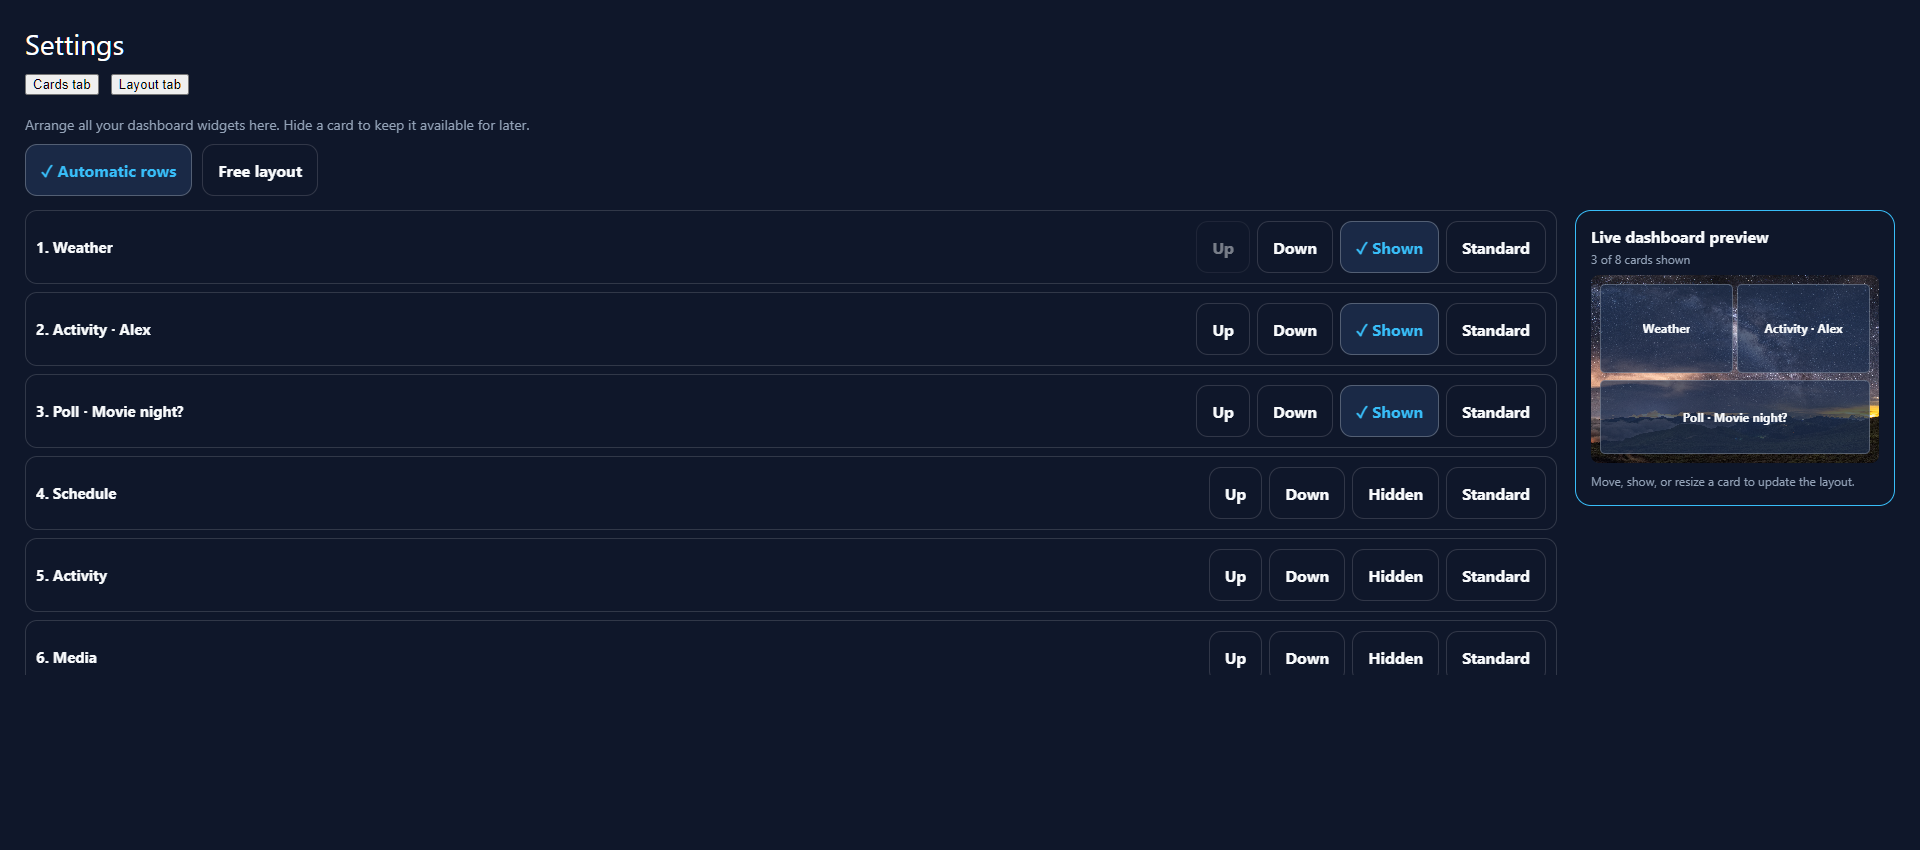
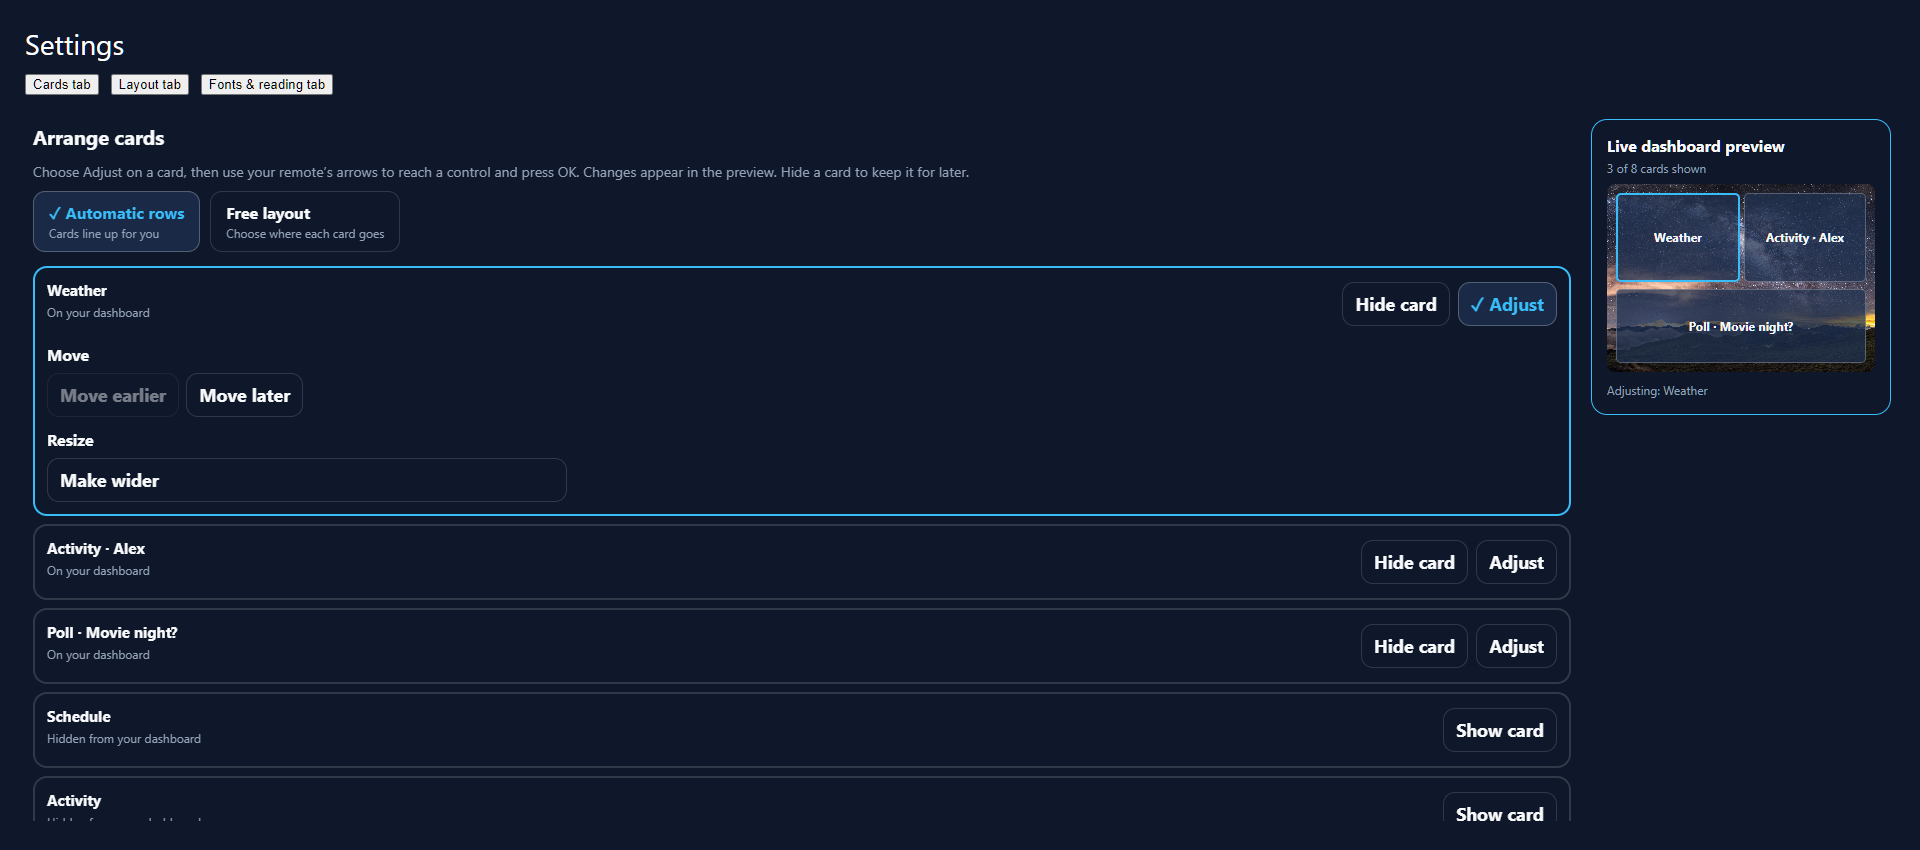
tweak styling of dashboards card layout screen so preview remains sticky

diff --git a/HomeScreen/src/components/settings/appearance/WidgetCardSettings.tsx b/HomeScreen/src/components/settings/appearance/WidgetCardSettings.tsx
@@ -1,6 +1,6 @@
 import Text from '../../shared/ReadingText';
 import {useEffect, useState} from 'react';
-import { useWindowDimensions, View} from 'react-native';
+import {ScrollView, StyleSheet, useWindowDimensions, View} from 'react-native';
 import {useAuth} from '../../../context/AuthContext';
 import {usePolls} from '../../../context/PollsContext';
 import {getAvailableDashboardPolls, getPeopleSettings} from '../../../services/api';
@@ -20,8 +20,12 @@ export default function WidgetCardSettings() {
   const theme = useTheme();
   const {user} = useAuth();
   const {rounds} = usePolls();
-  const {appearance, ready, setWidgetLayout, resetAppearance} = useAppearance();
-  const sideBySide = useWindowDimensions().width >= 900;
+  const {appearance, ready, setWidgetLayout} = useAppearance();
+  const {width, height} = useWindowDimensions();
+  const [editorWidth, setEditorWidth] = useState(width - 280);
+  const sideBySide = editorWidth >= 760;
+  const compactPreview = !sideBySide || height < 700;
+  const [selectedId, setSelectedId] = useState<string | null>(null);
   const [people, setPeople] = useState<PeopleSettings['people']>([]);
   const [polls, setPolls] = useState<AvailablePoll[]>([]);
   const [loading, setLoading] = useState(true);
@@ -45,6 +49,9 @@ export default function WidgetCardSettings() {
   const labels = [...polls, ...Object.values(rounds).filter((round) => !polls.some((poll) => poll.id === round.id))];
   const label = (widget: Widget) => widgetLabel(widget, people, labels);
   const visibleCount = layout.widgets.filter((widget) => widget.visible).length;
+  const selected = layout.widgets.find((widget) => widget.id === selectedId && widget.visible)
+    || layout.widgets.find((widget) => widget.visible);
+  useEffect(() => {setSelectedId(selected?.id || null);}, [selected?.id]);
   const positions = [...layout.grid?.items || []].sort((a, b) => a.y - b.y || a.x - b.x);
   const available: Widget[] = [
     ...people.filter((person) => !layout.widgets.some((widget) => widget.personId === person.id))
@@ -57,55 +64,91 @@ export default function WidgetCardSettings() {
   }
   function edit(id: string, action: WidgetAction) {run(() => setWidgetLayout(changeWidget(layout, id, action)));}
   const copy = {color: theme.colors.textSecondary};
-  const preview = <View style={[styles.livePreviewPanel, {width: sideBySide ? 320 : '100%', borderColor: theme.colors.focusRing, backgroundColor: theme.colors.glassSurface}]}>
+  const preview = <View testID='live-dashboard-preview' style={[styles.livePreviewPanel, {alignSelf: 'flex-start', flexShrink: 0, width: sideBySide ? 300 : '100%', borderColor: theme.colors.focusRing, backgroundColor: theme.colors.glassSurface}]}>
     <Text style={[styles.livePreviewTitle, {color: theme.colors.textPrimary}]}>Live dashboard preview</Text>
     <Text style={[styles.livePreviewMeta, copy]}>{visibleCount} of {layout.widgets.length} cards shown</Text>
-    <LayoutPreview cards={appearance.cards} appearance={{...appearance, widgetLayout: layout}} label={label} large/>
-    <Text style={[styles.livePreviewHint, copy]}>{layout.grid ? 'Positions and sizes use the dashboard’s 12 × 6 grid.' : 'Move, show, or resize a card to update the layout.'}</Text>
+    <LayoutPreview cards={appearance.cards} appearance={{...appearance, widgetLayout: layout}} label={label} selectedId={selected?.id} compact={compactPreview} large/>
+    <Text style={[styles.livePreviewHint, copy]}>{selected ? `Adjusting: ${label(selected)}` : 'Choose a card to adjust.'}</Text>
   </View>;
-  const controls = <View style={[styles.cardList, {flex: sideBySide ? 1 : undefined, width: sideBySide ? undefined : '100%'}]}>
+  const controls = <View style={styles.cardList}>
     {layout.widgets.map((widget, index) => {
       const name = label(widget);
       const item = layout.grid?.items.find((entry) => entry.id === widget.id);
-      const action = (title: string, change: WidgetAction, disabled = false) => <Option key={title} label={title}
-        accessibilityLabel={`${title} ${name}`} disabled={!ready || disabled} onPress={() => edit(widget.id, change)}/>;
-      return <View key={widget.id} style={[styles.cardRow, {borderColor: theme.colors.glassBorder}]}>
-        <Text style={[styles.cardName, {color: theme.colors.textPrimary}]}>{index + 1}. {name}</Text>
-        <View style={styles.cardActions}>
-          {!layout.grid && <>{action('Up', {type: 'order', direction: -1}, index === 0)}{action('Down', {type: 'order', direction: 1}, index === layout.widgets.length - 1)}</>}
-          <Option label={widget.visible ? 'Shown' : 'Hidden'} selected={widget.visible} accessibilityLabel={`${name} ${widget.visible ? 'shown' : 'hidden'}`}
+      const active = widget.id === selected?.id;
+      const action = (title: string, change: WidgetAction, disabled = false, accessibleTitle = title) => {
+        // A move into an occupied space should be visibly unavailable before pressing OK.
+        let blocked = disabled;
+        if (change.type === 'geometry') {
+          try {changeWidget(layout, widget.id, change);} catch {blocked = true;}
+        }
+        return <Option key={title} label={title} compact accessibilityLabel={`${accessibleTitle} ${name}`}
+          disabled={!ready || blocked} onPress={() => edit(widget.id, change)}/>;
+      };
+      return <View key={widget.id} style={[cardStyles.card, {borderColor: active ? theme.colors.focusRing : theme.colors.glassBorder}]}>
+        <View style={cardStyles.cardHeader}>
+          <View style={cardStyles.cardTitle}>
+            <Text style={[styles.cardName, {color: theme.colors.textPrimary}]}>{name}</Text>
+            <Text style={[styles.livePreviewMeta, copy]}>{widget.visible ? 'On your dashboard' : 'Hidden from your dashboard'}</Text>
+          </View>
+          <Option label={widget.visible ? 'Hide card' : 'Show card'} accessibilityLabel={`${widget.visible ? 'Hide' : 'Show'} ${name}`} compact
             disabled={!ready || widget.visible && visibleCount === 1} onPress={() => edit(widget.id, {type: 'visibility'})}/>
-          {!layout.grid && action(widget.size === 'wide' ? 'Wide' : 'Standard', {type: 'size'})}
-          {widget.kind === 'feed' && action('Remove feed', {type: 'remove'}, widget.visible && visibleCount === 1)}
-          {item && <>
-            {action('Previous spot', {type: 'swap', direction: -1}, positions[0]?.id === widget.id)}
-            {action('Next spot', {type: 'swap', direction: 1}, positions[positions.length - 1]?.id === widget.id)}
-            {action('Left', {type: 'geometry', field: 'x', amount: -1}, item.x === 0)}
-            {action('Right', {type: 'geometry', field: 'x', amount: 1}, item.x + item.width === 12)}
-            {action('Up', {type: 'geometry', field: 'y', amount: -1}, item.y === 0)}
-            {action('Down', {type: 'geometry', field: 'y', amount: 1}, item.y + item.height === 6)}
-            <Text style={copy}>{item.width} × {item.height}</Text>
-            {action('Narrower', {type: 'geometry', field: 'width', amount: -1}, item.width === 3)}
-            {action('Wider', {type: 'geometry', field: 'width', amount: 1}, item.x + item.width === 12)}
-            {action('Shorter', {type: 'geometry', field: 'height', amount: -1}, item.height === 2)}
-            {action('Taller', {type: 'geometry', field: 'height', amount: 1}, item.y + item.height === 6)}
-          </>}
+          {widget.visible && <Option label='Adjust' selected={active} accessibilityLabel={`Adjust ${name}`} compact
+            disabled={!ready} onPress={() => {setSelectedId(widget.id); setMessage('');}}/>}
+          {widget.kind === 'feed' && !active && action('Remove feed', {type: 'remove'}, widget.visible && visibleCount === 1)}
         </View>
+        {active && <View style={cardStyles.adjustments}>
+          <Text style={[cardStyles.groupTitle, {color: theme.colors.textPrimary}]}>Move</Text>
+          {item ? <>
+            <Text style={[styles.description, copy]}>Move into an empty space, or swap places with another card.</Text>
+            <View style={cardStyles.directionRow}>
+              {action('↑ Up', {type: 'geometry', field: 'y', amount: -1}, false, 'Move up')}
+            </View>
+            <View style={cardStyles.directionRow}>
+              {action('← Left', {type: 'geometry', field: 'x', amount: -1}, false, 'Move left')}
+              {action('Right →', {type: 'geometry', field: 'x', amount: 1}, false, 'Move right')}
+            </View>
+            <View style={cardStyles.directionRow}>
+              {action('↓ Down', {type: 'geometry', field: 'y', amount: 1}, false, 'Move down')}
+            </View>
+            <View style={styles.cardActions}>
+              {action('Swap previous', {type: 'swap', direction: -1}, positions[0]?.id === widget.id)}
+              {action('Swap next', {type: 'swap', direction: 1}, positions[positions.length - 1]?.id === widget.id)}
+            </View>
+          </> : <View style={styles.cardActions}>
+            {action('Move earlier', {type: 'order', direction: -1}, index === 0)}
+            {action('Move later', {type: 'order', direction: 1}, index === layout.widgets.length - 1)}
+          </View>}
+          <Text style={[cardStyles.groupTitle, {color: theme.colors.textPrimary}]}>Resize</Text>
+          {item ? <>
+            <View style={styles.cardActions}>
+              {action('Narrower', {type: 'geometry', field: 'width', amount: -1})}
+              {action('Wider', {type: 'geometry', field: 'width', amount: 1})}
+            </View>
+            <View style={styles.cardActions}>
+              {action('Shorter', {type: 'geometry', field: 'height', amount: -1})}
+              {action('Taller', {type: 'geometry', field: 'height', amount: 1})}
+            </View>
+          </> : action(widget.size === 'wide' ? 'Make standard width' : 'Make wider', {type: 'size'})}
+          {widget.kind === 'feed' && action('Remove feed', {type: 'remove'}, widget.visible && visibleCount === 1)}
+        </View>}
       </View>;
     })}
   </View>;
-  return <>
-    <Text style={[styles.description, copy]}>Arrange all your dashboard widgets here. Hide a card to keep it available for later.{layout.grid ? ' Use Previous spot or Next spot to swap cards, or the arrows to move into empty space.' : ''}</Text>
+  return <View style={[cardStyles.editor, {flexDirection: sideBySide ? 'row' : 'column'}]}
+    onLayout={({nativeEvent}) => setEditorWidth(nativeEvent.layout.width)}>
+    {!sideBySide && preview}
+    <ScrollView testID='card-settings-scroll' style={cardStyles.scroll} contentContainerStyle={cardStyles.scrollContent} showsVerticalScrollIndicator accessibilityLabel='Card settings'>
+    <Text style={[styles.title, {color: theme.colors.textPrimary}]}>Arrange cards</Text>
+    <Text style={[styles.description, copy]}>Choose Adjust on a card, then use your remote’s arrows to reach a control and press OK. Changes appear in the preview. Hide a card to keep it for later.</Text>
     <View style={[styles.options, {marginBottom: 14}]}>
-      <Option label='Automatic rows' selected={!layout.grid} disabled={!ready || visibleCount > 8}
-        onPress={() => setWidgetLayout({...layout, grid: null})}/>
-      <Option label='Free layout' selected={Boolean(layout.grid)} disabled={!ready}
-        onPress={() => setWidgetLayout({...layout, grid: layout.grid || widgetGridFromRows(layout.widgets)})}/>
+      <Option label='Automatic rows' subtitle='Cards line up for you' selected={!layout.grid} disabled={!ready || visibleCount > 8}
+        onPress={() => run(() => setWidgetLayout({...layout, grid: null}))}/>
+      <Option label='Free layout' subtitle='Choose where each card goes' selected={Boolean(layout.grid)} disabled={!ready}
+        onPress={() => run(() => setWidgetLayout({...layout, grid: layout.grid || widgetGridFromRows(layout.widgets)}))}/>
     </View>
+    {visibleCount > 8 && <Text style={[styles.description, copy]}>Hide cards until eight remain to use automatic rows.</Text>}
     {message && <Text accessibilityRole='alert' style={[styles.description, {color: theme.colors.textPrimary}]}>{message}</Text>}
-    <View style={[styles.cardEditor, {flexDirection: sideBySide ? 'row' : 'column'}]}>
-      {sideBySide ? <>{controls}{preview}</> : <>{preview}{controls}</>}
-    </View>
+    {controls}
     <Text style={[styles.heading, {color: theme.colors.textPrimary}]}>Add cards</Text>
     <Text style={[styles.description, copy]}>Add several feed widgets. Open a feed card to choose its source; use the companion site for custom URLs and titles.</Text>
     <FeedSourcePicker adding disabled={!ready} onSelect={(feed) => run(() => setWidgetLayout(addDashboardWidget(layout, {id: `feed_${Array.from({length: 32}, () => Math.floor(Math.random() * 16).toString(16)).join('')}`, kind: 'feed', feed: {...feed, itemCount: 5}, visible: true, size: 'standard'})))}/>
@@ -115,6 +158,19 @@ export default function WidgetCardSettings() {
     {loadError && <Text accessibilityRole='alert' style={[styles.description, copy]}>{loadError}</Text>}
     {!loading && !loadError && !available.length && <Text style={[styles.description, copy]}>All available cards are listed above. Add people or create polls on the companion site to make more available.</Text>}
     <Option label='Refresh available cards' disabled={!ready || loading} onPress={() => setRefresh((value) => value + 1)}/>
-    <View style={styles.reset}><Option label='Restore default colors and background' disabled={!ready} onPress={resetAppearance}/></View>
-  </>;
+    </ScrollView>
+    {sideBySide && preview}
+  </View>;
 }
+
+const cardStyles = StyleSheet.create({
+  editor: {flex: 1, minHeight: 0, minWidth: 0, gap: 16, padding: 4},
+  scroll: {flex: 1, minHeight: 0, minWidth: 0},
+  scrollContent: {padding: 4, paddingBottom: 24},
+  card: {borderWidth: 2, borderRadius: 14, padding: 12, gap: 12},
+  cardHeader: {flexDirection: 'row', alignItems: 'center', flexWrap: 'wrap', gap: 8},
+  cardTitle: {flexGrow: 1, flexShrink: 1, minWidth: 140},
+  adjustments: {gap: 8, width: '100%', maxWidth: 520},
+  groupTitle: {fontSize: 16, fontWeight: '700', marginTop: 4},
+  directionRow: {flexDirection: 'row', justifyContent: 'center', gap: 12},
+});

diff --git a/HomeScreen/src/components/settings/appearance/LayoutPreview.tsx b/HomeScreen/src/components/settings/appearance/LayoutPreview.tsx
@@ -17,11 +17,15 @@ export default function LayoutPreview({
   large = false,
   appearance: suppliedAppearance,
   label = widgetLabel,
+  selectedId,
+  compact = false,
 }: {
   cards: CardPreference[];
   large?: boolean;
   appearance?: DashboardAppearance;
   label?: (widget: Widget) => string;
+  selectedId?: string;
+  compact?: boolean;
 }) {
   const currentTheme = useTheme();
   const {appearance: currentAppearance, photoDataUrl} = useAppearance();
@@ -62,6 +66,7 @@ export default function LayoutPreview({
       style={[
         styles.preview,
         large && styles.largePreview,
+        compact && {height: 108},
         { backgroundColor: theme.colors.background },
       ]}
       accessible={false}
@@ -85,6 +90,7 @@ export default function LayoutPreview({
                   borderColor: tileColors(item.id).borderColor,
                   borderWidth: tileColors(item.id).borderWidth,
                   borderRadius: tileColors(item.id).borderRadius,
+                  ...(selectedId === item.id ? {borderColor: theme.colors.focusRing, borderWidth: 2} : {}),
                 },
               ]}
             >
@@ -118,6 +124,7 @@ export default function LayoutPreview({
                       borderColor: tileColors(card.id).borderColor,
                       borderWidth: tileColors(card.id).borderWidth,
                       borderRadius: tileColors(card.id).borderRadius,
+                      ...(selectedId === card.id ? {borderColor: theme.colors.focusRing, borderWidth: 2} : {}),
                     },
                   ]}
                 >

diff --git a/HomeScreen/src/components/settings/SettingsDetailView.tsx b/HomeScreen/src/components/settings/SettingsDetailView.tsx
@@ -130,17 +130,17 @@ export default function SettingsDetailView({
           );
         })}
       </ScrollView>
+      {section === 'cards' && <View style={styles.content}><AppearanceSettings section='cards' /></View>}
       <ScrollView
         ref={scrollRef}
-        style={styles.content}
+        style={[styles.content, section === 'cards' && styles.hiddenSection]}
         contentContainerStyle={styles.contentInner}
         showsVerticalScrollIndicator
         accessibilityLabel={`${SECTIONS.find((item) => item.id === section)?.label} options`}
       >
         {(section === 'colors' ||
           section === 'background' ||
-          section === 'layout' ||
-          section === 'cards') && <AppearanceSettings section={section} />}
+          section === 'layout') && <AppearanceSettings section={section} />}
         {section === 'reading' && <ReadingSettings />}
         {section === 'accessibility' && <AccessibilitySettings />}
         {section === 'ambient' && (
@@ -182,7 +182,7 @@ const styles = StyleSheet.create({
   compactTab: {minHeight: 36, paddingVertical: 5, gap: 7},
   tabLabel: { fontSize: 16, fontWeight: '700', flexShrink: 1 },
   compactTabLabel: {fontSize: 14},
-  content: { flex: 1, minWidth: 0 },
+  content: { flex: 1, minWidth: 0, minHeight: 0 },
   hiddenSection: { display: 'none' },
   contentInner: { paddingBottom: 12, paddingHorizontal: 4 },
 });

diff --git a/HomeScreen/test/settings.tsx b/HomeScreen/test/settings.tsx
@@ -8,15 +8,17 @@ import ReadingSettings from '../src/components/settings/appearance/ReadingSettin
 function Settings() {
   const [section, setSection] = useState('cards');
   const {appearance} = useAppearance();
-  return <View style={{padding: 25, backgroundColor: '#0F172A', height: '100%', minHeight: 650}}>
+  return <View style={{padding: 25, backgroundColor: '#0F172A', height: '100%', minHeight: 0}}>
     <Text style={{color: 'white', fontSize: 28, marginBottom: 12}}>Settings</Text>
     <View style={{flexDirection: 'row', gap: 12, marginBottom: 20}}>
       <button onClick={() => setSection('cards')}>Cards tab</button><button onClick={() => setSection('layout')}>Layout tab</button>
       <button onClick={() => setSection('reading')}>Fonts & reading tab</button>
     </View>
-    <ScrollView style={{maxHeight: 560}}>
-      {section === 'reading' ? <ReadingSettings/> : section === 'cards' ? <WidgetCardSettings/> : <SavedLayoutSettings/>}
-    </ScrollView>
+    {section === 'cards' ? <View style={{flex: 1, minHeight: 0}}><WidgetCardSettings/></View> : (
+      <ScrollView style={{maxHeight: 560}}>
+        {section === 'reading' ? <ReadingSettings/> : <SavedLayoutSettings/>}
+      </ScrollView>
+    )}
     <pre data-appearance style={{display: 'none'}}>{JSON.stringify(appearance)}</pre>
   </View>;
 }

diff --git a/HomeScreen/src/components/settings/appearance/AppearanceSettings.tsx b/HomeScreen/src/components/settings/appearance/AppearanceSettings.tsx
@@ -45,6 +45,7 @@ export default function AppearanceSettings({
   );
   const validAccent = normalizeHexColor(accentInput);
   const validBackground = normalizeHexColor(backgroundInput);
+  if (section === 'cards') return <WidgetCardSettings />;
   return (
     <View style={styles.section}>
       <Text style={[styles.title, { color: theme.colors.textPrimary }]}>
@@ -248,7 +249,6 @@ export default function AppearanceSettings({
       )}
 
       {section === 'layout' && <SavedLayoutSettings />}
-      {section === 'cards' && <WidgetCardSettings />}
     </View>
   );
 }

diff --git a/HomeScreen/test/settings.html b/HomeScreen/test/settings.html
@@ -1,1 +1,1 @@
-<!doctype html><html><head><meta charset="utf-8"/><title>TV settings fixture</title></head><body style="margin:0;background:#0f172a"><div id="root"></div><script type="module" src="/settings.tsx"></script></body></html>
+<!doctype html><html><head><meta charset="utf-8"/><title>TV settings fixture</title></head><body style="margin:0;background:#0f172a"><div id="root" style="height:100vh"></div><script type="module" src="/settings.tsx"></script></body></html>

diff --git a/HomeScreen/test/SETTINGS.md b/HomeScreen/test/SETTINGS.md
@@ -6,6 +6,13 @@ bindings, and styles. Free layouts allow swapping complete footprints, moving
 into empty space, and resizing without overlaps. Automatic rows fit eight
 visible cards and the free grid fits twelve.
 
+Cards owns its scrolling area so the live preview remains visible, beside the
+controls on wide screens and above them on compact screens. Adjust opens one
+card's Move and Resize controls and highlights that card in the preview.
+Show/Hide actions stay available in each row. Movement uses a directional pad;
+unavailable positions and sizes are disabled, including overlaps. Grid dimensions
+are omitted from the controls. Reordering keeps the same card selected.
+
 The Layout tab reads saved companion designs through
 `appearanceStudio?designs=1`. TV sessions receive saved designs only. Drafts,
 history, and library mutations remain restricted to the owner. Selecting a
@@ -28,7 +35,9 @@ resolvable; `NODE_PATH` can point to bundled runtime packages. Set
 The fixture uses the real appearance provider and settings components with
 mocked authentication, APIs, and local storage. It checks compact and full
 widths, keyboard activation, widget persistence, saved and preset layouts,
-and retry after a library failure. Native TV focus still needs a device check.
+and retry after a library failure. It also checks preview visibility while
+scrolling, compact screen heights, and selection while reordering and hiding.
+Native TV focus still needs a device check.
 
 Release these changes by deploying the updated `appearanceStudio` and
 `pollFeed` functions and rebuilding/installing the TV app. No companion UI
